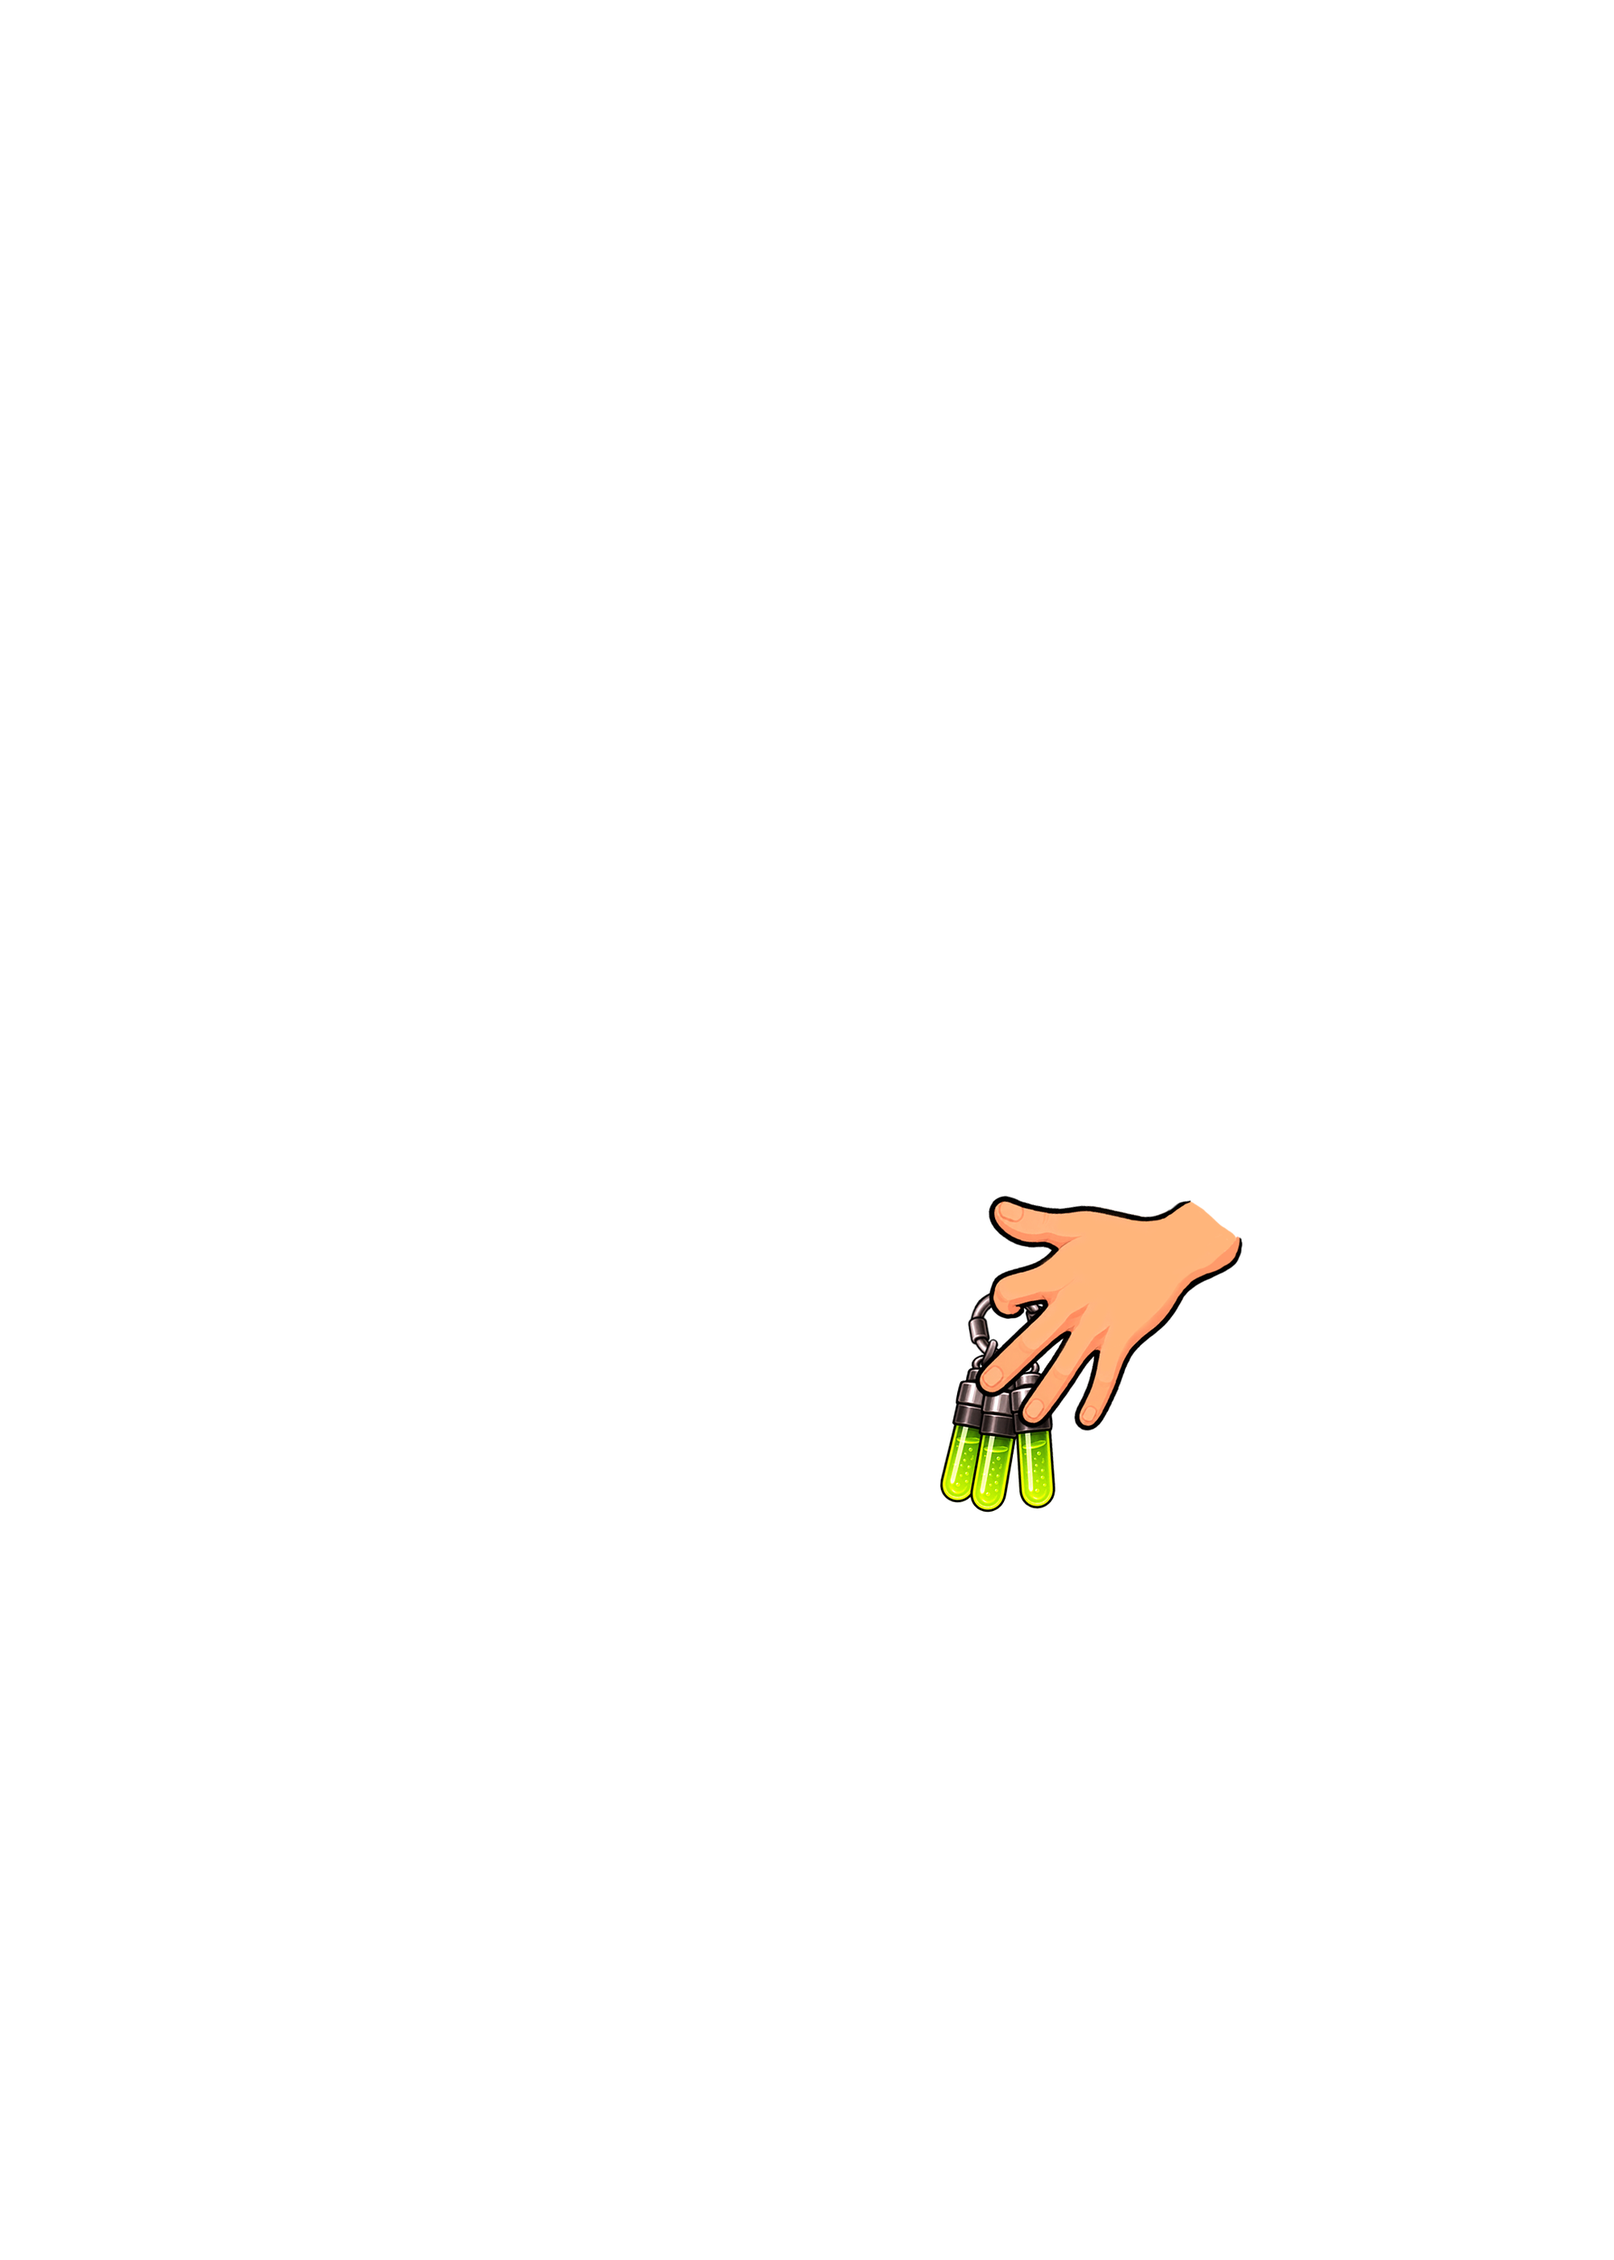
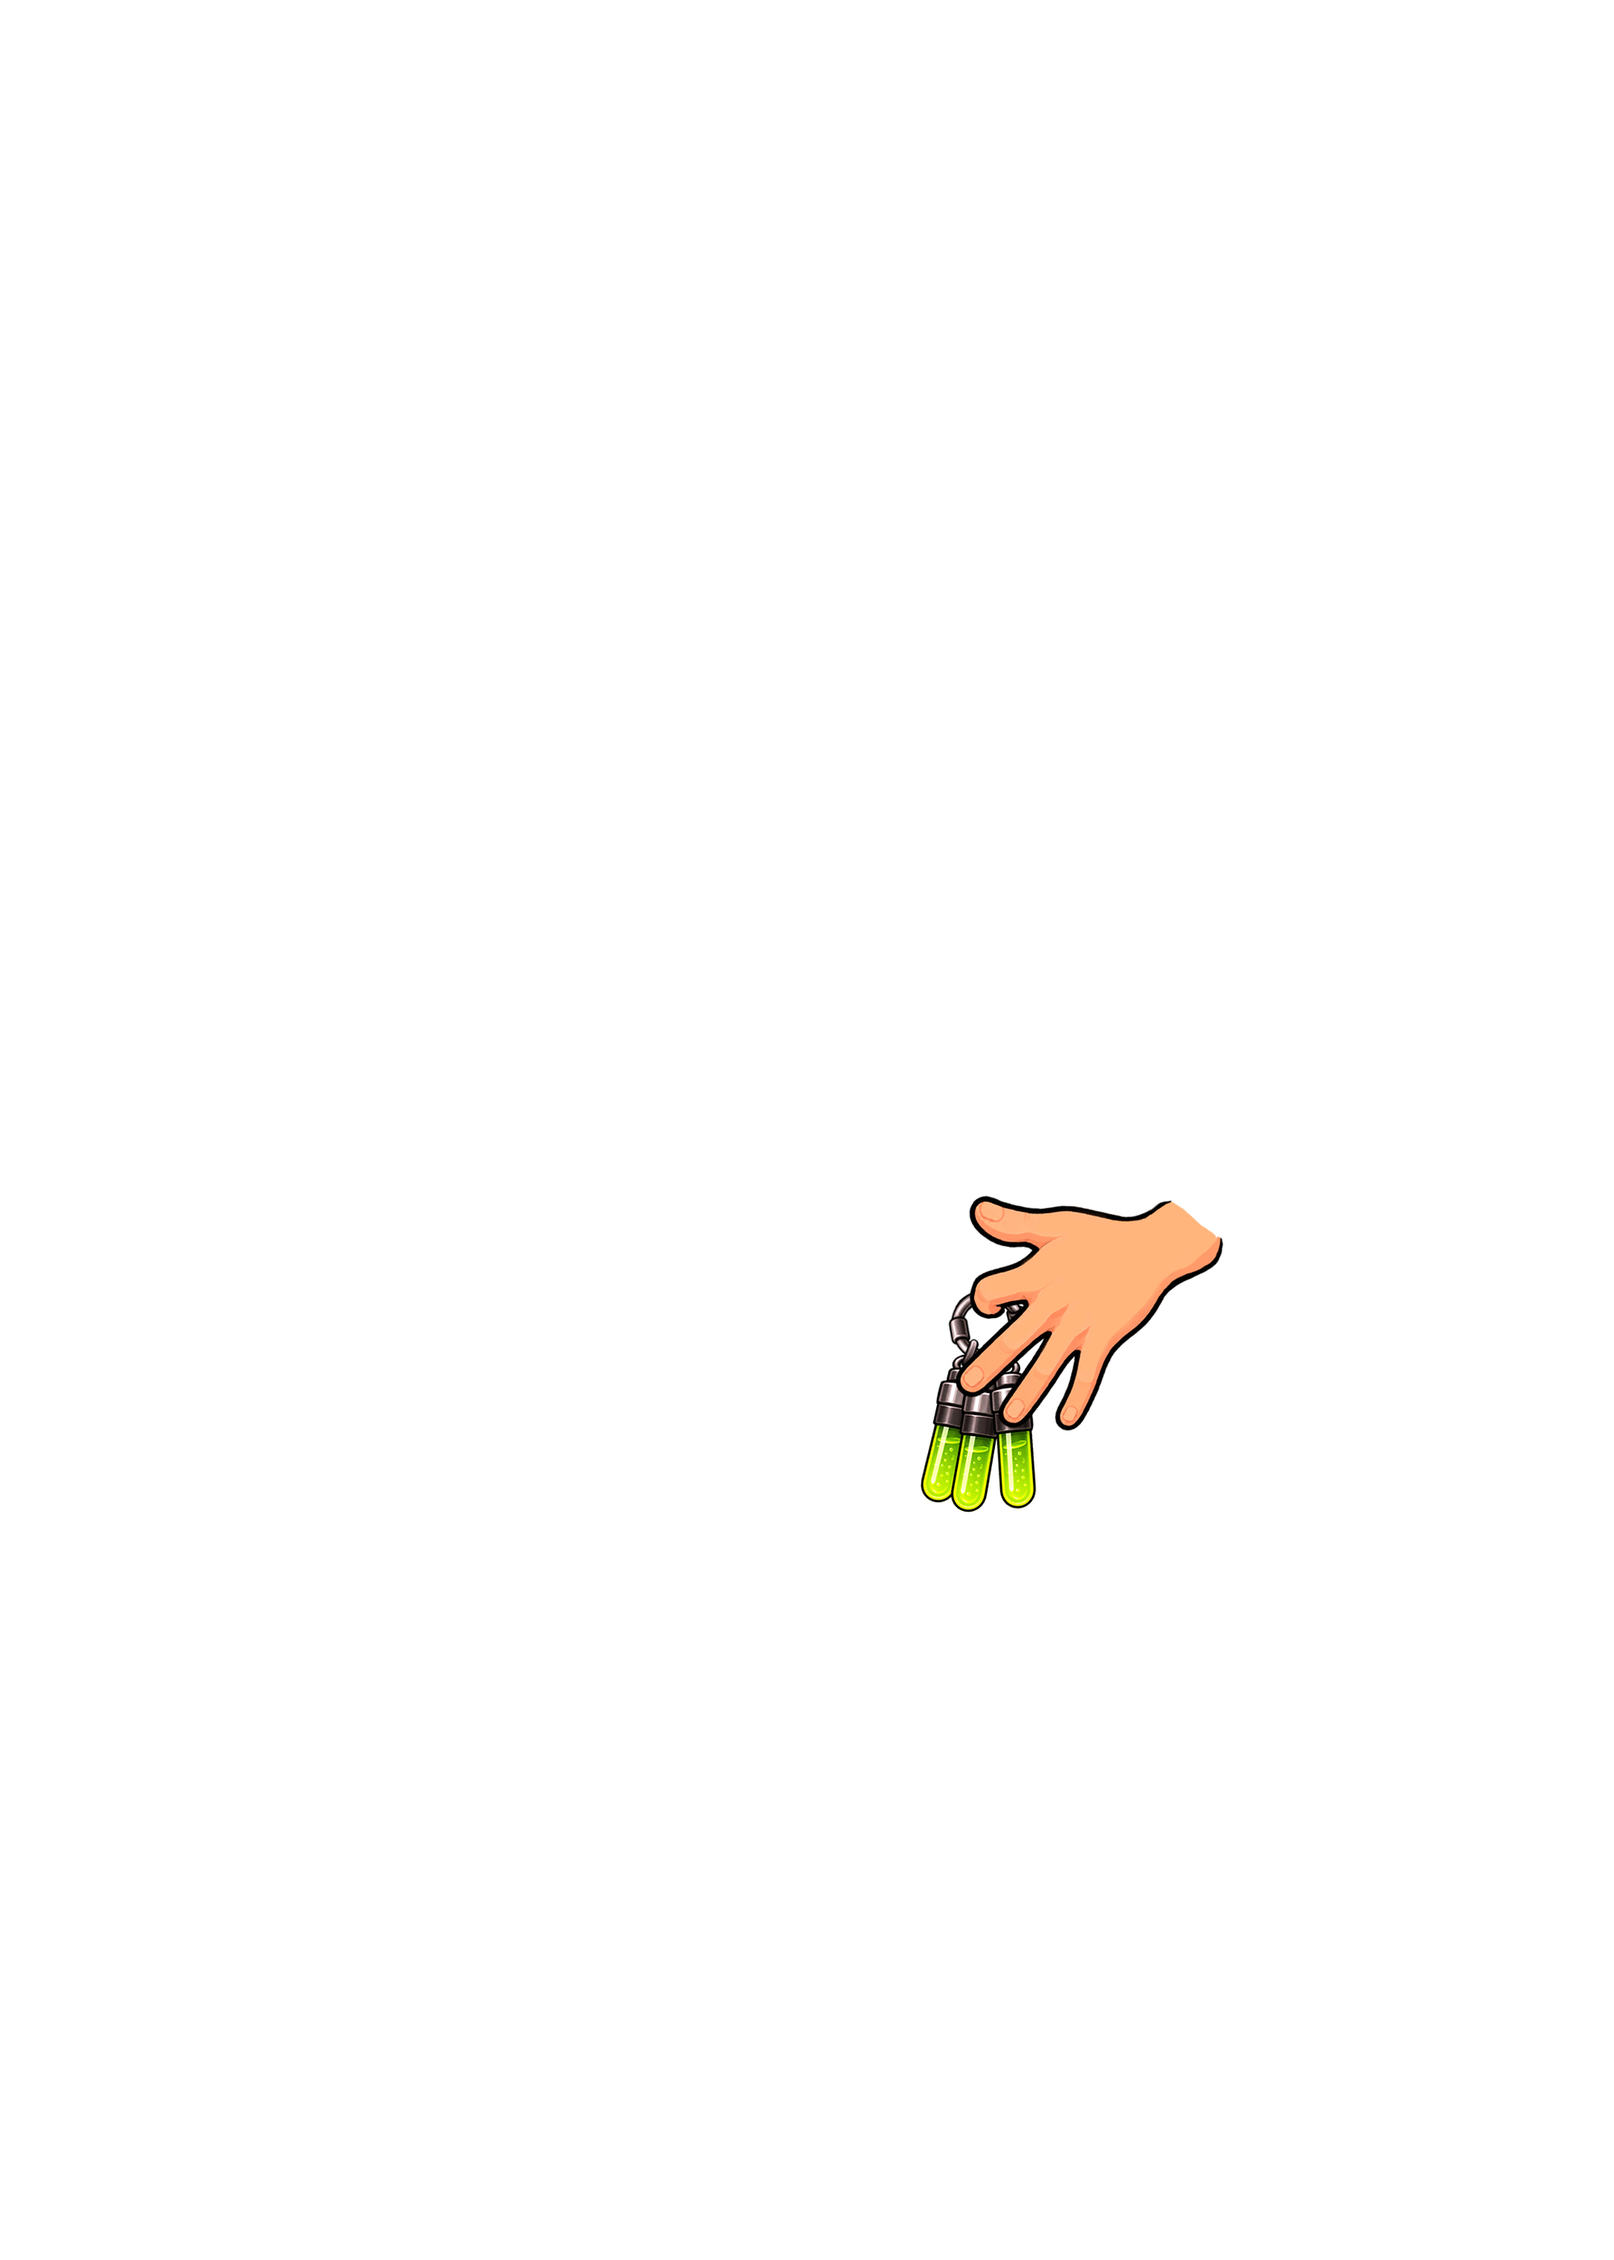
Колбы Утилизатора: кисть ещё левее на 12 px
Claude-Session: https://claude.ai/code/session_01XtpZhZabEYUcJEQKQgYpHe

Changed region(s): [[0.558, 0.5282, 0.775, 0.6836]]

diff --git a/src/client/art/vials-data.ts b/src/client/art/vials-data.ts
@@ -2,79 +2,79 @@
 /** «Колбы Утилизатора» in the hand: its layers (the vials hang from their own pivot) and the pivots */
 export const VIALS_PARTS: Record<string, { x: number; y: number; w: number; h: number; pivot?: [number, number] }> = {
   "ring": {
-    "x": 598.2,
+    "x": 586.3,
     "y": 796.7,
     "w": 52.9,
     "h": 49.2
   },
   "vial-1": {
-    "x": 581.2,
+    "x": 569.3,
     "y": 837.1,
     "w": 39.1,
     "h": 95.2,
     "pivot": [
-      609.5,
+      597.5,
       841.3
     ]
   },
   "vial-2": {
-    "x": 599.6,
+    "x": 587.7,
     "y": 842.7,
     "w": 35.0,
     "h": 95.7,
     "pivot": [
-      623.8,
+      611.8,
       846.8
     ]
   },
   "vial-3": {
-    "x": 623.5,
+    "x": 611.6,
     "y": 839.4,
     "w": 32.2,
     "h": 97.1,
     "pivot": [
-      636.4,
+      624.5,
       843.6
     ]
   },
   "clip-1": {
-    "x": 606.1,
+    "x": 594.1,
     "y": 827.9,
     "w": 14.3,
     "h": 21.2
   },
   "clip-2": {
-    "x": 619.9,
+    "x": 607.9,
     "y": 831.2,
     "w": 9.7,
     "h": 21.6
   },
   "clip-3": {
-    "x": 628.6,
+    "x": 616.6,
     "y": 829.3,
     "w": 12.0,
     "h": 22.1
   },
   "hand": {
-    "x": 611.1,
+    "x": 599.2,
     "y": 739.2,
     "w": 160.5,
     "h": 99.4
   },
   "finger-m": {
-    "x": 602.4,
+    "x": 590.4,
     "y": 808.6,
     "w": 66.7,
     "h": 73.1
   },
   "finger-r": {
-    "x": 629.1,
+    "x": 617.1,
     "y": 818.7,
     "w": 58.4,
     "h": 67.6
   },
   "finger-p": {
-    "x": 658.5,
+    "x": 646.5,
     "y": 822.9,
     "w": 53.4,
     "h": 65.3
@@ -83,7 +83,7 @@ export const VIALS_PARTS: Record<string, { x: number; y: number; w: number; h: n
 export const VIALS_ORDER = ["ring", "vial-1", "vial-2", "vial-3", "clip-1", "clip-2", "clip-3", "hand", "finger-m", "finger-r", "finger-p"] as const;
 export const VIALS_PIVOTS: Record<string, [number, number]> = {
   "spin": [
-    632.2,
+    620.2,
     821.1
   ],
   "wrist": [
@@ -91,15 +91,15 @@ export const VIALS_PIVOTS: Record<string, [number, number]> = {
     764.0
   ],
   "finger-m": [
-    655.3,
+    643.3,
     818.3
   ],
   "finger-r": [
-    670.9,
+    659.0,
     830.2
   ],
   "finger-p": [
-    689.3,
+    677.4,
     835.3
   ]
 };

diff --git a/src/client/preload.ts b/src/client/preload.ts
@@ -9,7 +9,7 @@ import { ASSET_FILES } from "./asset-manifest.ts";
 import { ROOM_BACKDROP, ROOM_BG } from "../content/home-scene.ts";
 
 /** cache-busting versions of redrawn art (bump when the picture changes) */
-export const ART_VER = { heroPart: 24, hair: 8, wear: 30, items: 41, pepe: 2, tattoo: 20, monitor: 2, chair: 7, shop: 3 } as const;
+export const ART_VER = { heroPart: 25, hair: 8, wear: 30, items: 41, pepe: 2, tattoo: 20, monitor: 2, chair: 7, shop: 3 } as const;
 
 /** the URL a screen really requests for a file from the manifest */
 export function usedUrl(path: string): string {

diff --git a/src/client/art/held-data.ts b/src/client/art/held-data.ts
@@ -26,7 +26,7 @@ export const HELD_FIT: Record<string, { x: number; y: number; w: number; h: numb
     "h": 295
   },
   "vials-utilizator": {
-    "x": 580.5,
+    "x": 568.5,
     "y": 738.5,
     "w": 191,
     "h": 200

diff --git a/tools/rig/build-held.py b/tools/rig/build-held.py
@@ -33,7 +33,7 @@ HELD = {"bottle-komandate": {"grip": (1300, 1810), "far": (1110, 2000)},
         # «Связка ключей» (made by build-keys.py from its layers): skin above the ring's grip, the keys below stay as drawn
         "keys-bundle": {"grip": (1280, 1660), "far": (1280, 1900)},
         # «Колбы Утилизатора» (build-vials.py): skin above the ring, the green vials below stay as drawn
-        "vials-utilizator": {"grip": (1264, 1642), "far": (1208, 1870)}}
+        "vials-utilizator": {"grip": (1240, 1642), "far": (1184, 1870)}}
 # things that hang from the fist and swing as a pendulum (rig.tsx HeldSwing): their own pictures, not tinted, and the
 # point they hang from (source-canvas pixels) — <item>-rope.png, <item>-anchor.png
 SWING = {"anchor-mugo": {"pivot": (1328, 1748), "parts": ["rope", "anchor"]}}

diff --git a/tools/rig/build-vials.py b/tools/rig/build-vials.py
@@ -24,7 +24,7 @@ ID = "vials-utilizator"
 # the artist's picture → the rig: its wrist (the cut edge on the right) lands where the other held hands' wrist is,
 # the hand as big as the hand with the keys
 S = 0.46
-U0 = np.array([454.0, 148.0])   # a little in from the wrist's cut edge: the hand sits up under the sleeve (as the keys' hand)
+U0 = np.array([480.0, 148.0])   # a little in from the wrist's cut edge: the hand sits up under the sleeve (as the keys' hand)
 R0 = np.array([762.0, 764.0])
 rig = lambda u: (np.asarray(u, np.float32) - U0) * S + R0
 SKIN_TONES = ["#f8d5b4", "#fcb477", "#dda57a", "#b97a4e", "#8a5534", "#5e3a24"]
